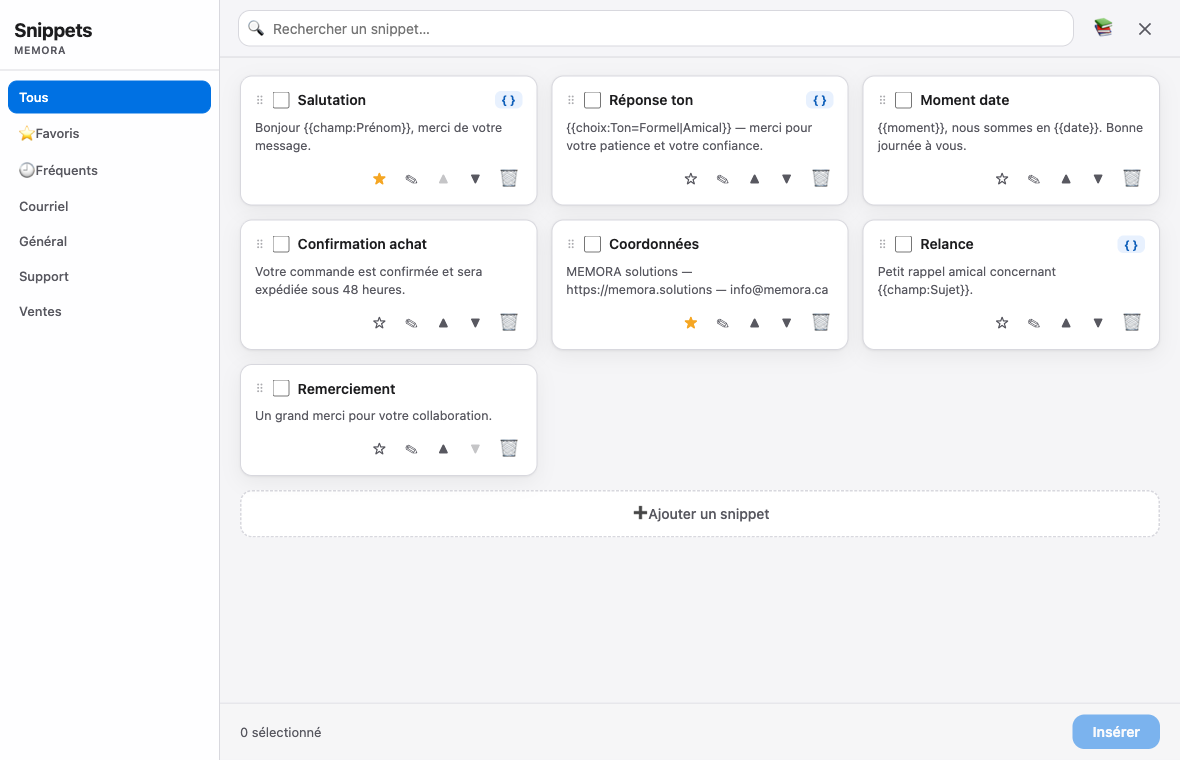
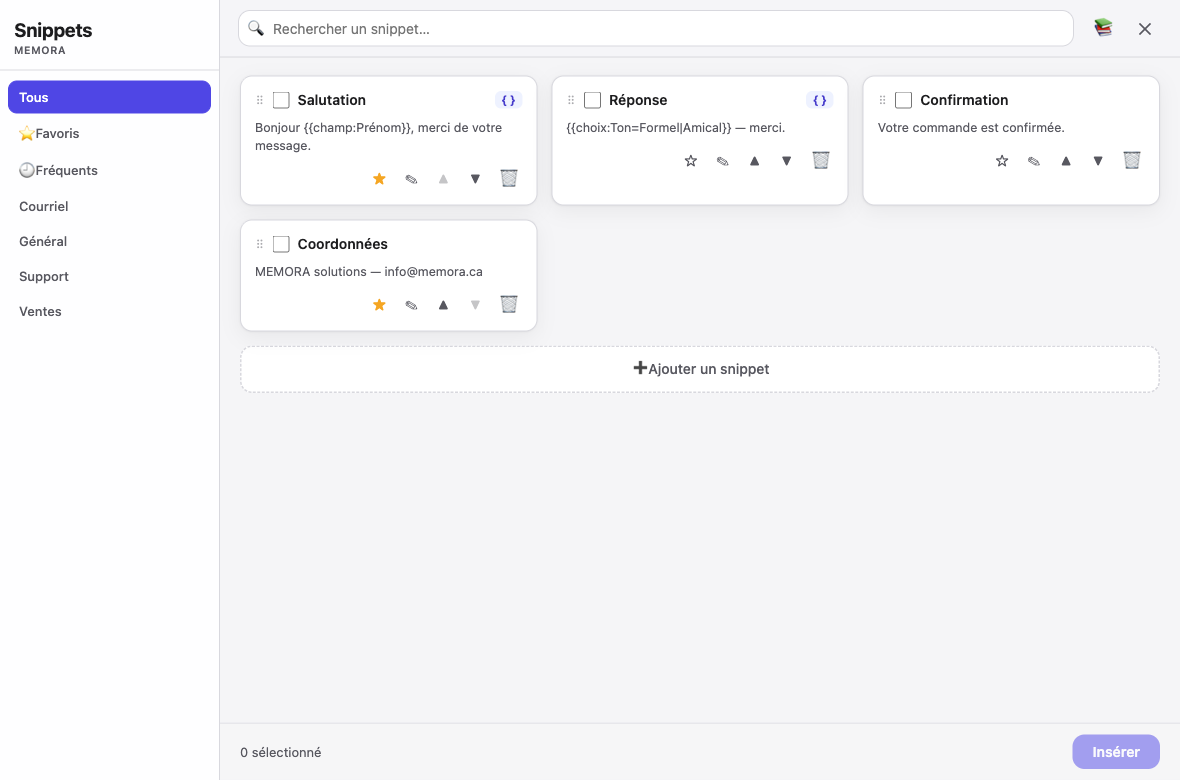
feat(v8): fenêtre adaptable à l'écran + palette indigo sobre/pro + libellé clarifié
- Fenêtre ~84% de l'écran (data-kmwindow proportionnel SCREEN), s'adapte à toute résolution
- Palette indigo (#4f46e5) sobre et professionnelle, contrastes WCAG AA validés
- « Coché par défaut » → « Pré-coché à l'ouverture » + correctif apostrophe (’ typographique)

diff --git a/templates/memora-snippets.template.html b/templates/memora-snippets.template.html
@@ -7,10 +7,10 @@
   <meta http-equiv="Content-Security-Policy" content="default-src 'self'; script-src 'unsafe-inline'; style-src 'unsafe-inline'; img-src 'self' data:; connect-src 'none'; base-uri 'none'; form-action 'none'">
   <title>MEMORA — Snippets</title>
   <style>
-    :root{--bg:#f5f5f7;--surface:#fff;--surface2:#f0f0f3;--border:#d8d8de;--text:#1d1d1f;--text2:#585860;--accent:#0071e3;--badge-text:#0a5cb8;--accent-weak:#e8f1fe;--danger:#ff3b30;--radius:12px;--shadow:0 1px 2px rgba(0,0,0,.06),0 6px 20px rgba(0,0,0,.06);--sidebar-w:220px;}
-    @media (prefers-color-scheme:dark){:root{--bg:#1c1c1e;--surface:#2c2c2e;--surface2:#3a3a3c;--border:#48484a;--text:#f5f5f7;--text2:#b3b3b9;--accent:#0a84ff;--badge-text:#6cb2ff;--accent-weak:rgba(10,132,255,.18);--danger:#ff453a;--shadow:0 1px 2px rgba(0,0,0,.5),0 8px 24px rgba(0,0,0,.55);}
-    body .btn-primary{background:#0a6cd4;}
-    body .chip.active{background:#0a6cd4;border-color:#0a6cd4;}}
+    :root{--bg:#f5f5f7;--surface:#fff;--surface2:#f0f0f3;--border:#d8d8de;--text:#1d1d1f;--text2:#585860;--accent:#4f46e5;--badge-text:#4338ca;--accent-weak:#eef2ff;--danger:#ff3b30;--radius:12px;--shadow:0 1px 2px rgba(0,0,0,.06),0 6px 20px rgba(0,0,0,.06);--sidebar-w:220px;}
+    @media (prefers-color-scheme:dark){:root{--bg:#1c1c1e;--surface:#2c2c2e;--surface2:#3a3a3c;--border:#48484a;--text:#f5f5f7;--text2:#b3b3b9;--accent:#818cf8;--badge-text:#a5b4fc;--accent-weak:rgba(129,140,248,.18);--danger:#ff453a;--shadow:0 1px 2px rgba(0,0,0,.5),0 8px 24px rgba(0,0,0,.55);}
+    body .btn-primary{background:#4f46e5;}
+    body .chip.active{background:#4f46e5;border-color:#4f46e5;}}
     *{box-sizing:border-box;margin:0;padding:0;font-family:-apple-system,BlinkMacSystemFont,'Segoe UI',Roboto,Helvetica,Arial,sans-serif;}
     html,body{height:100%;overflow:hidden;}
     body{background:var(--bg);color:var(--text);font-size:14px;}
@@ -127,7 +127,7 @@
     }
   </style>
 </head>
-<body data-kmwindow='SCREEN(Main,Left,10%),SCREEN(Main,Top,8%),1180,820'>
+<body data-kmwindow='SCREEN(Main,Left)+SCREEN(Main,Width)*0.08,SCREEN(Main,Top)+SCREEN(Main,Height)*0.08,SCREEN(Main,Width)*0.84,SCREEN(Main,Height)*0.84'>
   <div class='app-layout'>
     <!-- Sidebar : titre + navigation catégories -->
     <aside class='sidebar'>
@@ -300,7 +300,7 @@
               "<button type='button' data-token='{{alea:Option 1|Option 2}}'>+ Aléatoire</button>" +
             "</div></div>" +
           "<div class='form-group'><label for='edit-dossier'>Dossier (optionnel)</label><input type='text' id='edit-dossier' list='folder-list' value=\"" + escapeHtml(s.dossier || '') + "\" placeholder='Ex. Courriel'><datalist id='folder-list'>" + getFolders().map(f => "<option value=\"" + escapeHtml(f) + "\"></option>").join('') + "</datalist></div>" +
-          "<div class='checkbox-group'><input type='checkbox' id='edit-coche' " + (s.coché ? 'checked' : '') + "><label for='edit-coche'>Coché par défaut</label></div>" +
+          "<div class='checkbox-group'><input type='checkbox' id='edit-coche' " + (s.coché ? 'checked' : '') + "><label for='edit-coche' title='Le snippet sera déjà coché quand la fenêtre s’ouvre'>Pré-coché à l’ouverture</label></div>" +
           "<div class='help'><strong>Variables :</strong><ul>" +
             "<li><code>{{date}}</code> → mois et année (ex. juin 2026)</li>" +
             "<li><code>{{champ:Étiquette}}</code> → champ texte demandé à l'insertion</li>" +

diff --git a/CHANGELOG.md b/CHANGELOG.md
@@ -4,6 +4,13 @@ Auteur : MEMORA solutions — https://memora.solutions — [email redacted]
 
 Format inspiré de [Keep a Changelog](https://keepachangelog.com/fr/), versionnage [SemVer](https://semver.org/lang/fr/).
 
+## [8.0.0] - 2026-06-12
+
+### Modifié
+- **Fenêtre adaptable à chaque écran** : s'ouvre à ~84 % de l'écran, quelle que soit la résolution (au lieu d'une taille fixe).
+- **Nouvelle palette indigo**, sobre et professionnelle (contrastes WCAG AA conservés).
+- Libellé clarifié : « Coché par défaut » → **« Pré-coché à l'ouverture »** (avec correctif d'affichage de l'apostrophe).
+
 ## [7.0.0] - 2026-06-12
 
 ### Modifié